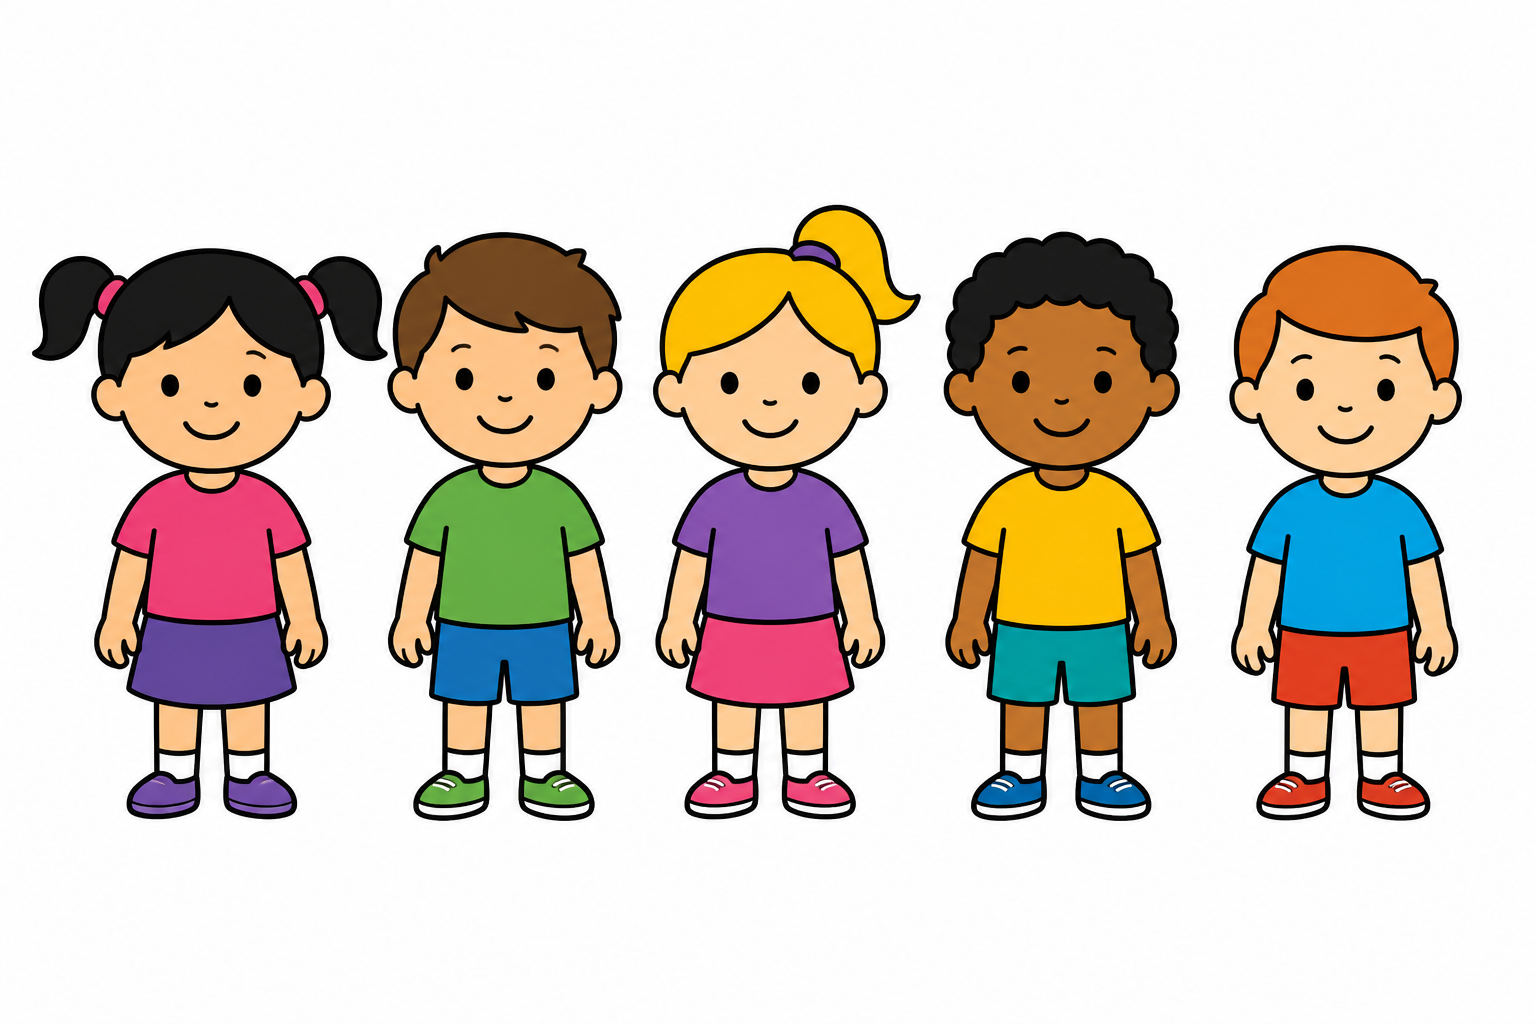
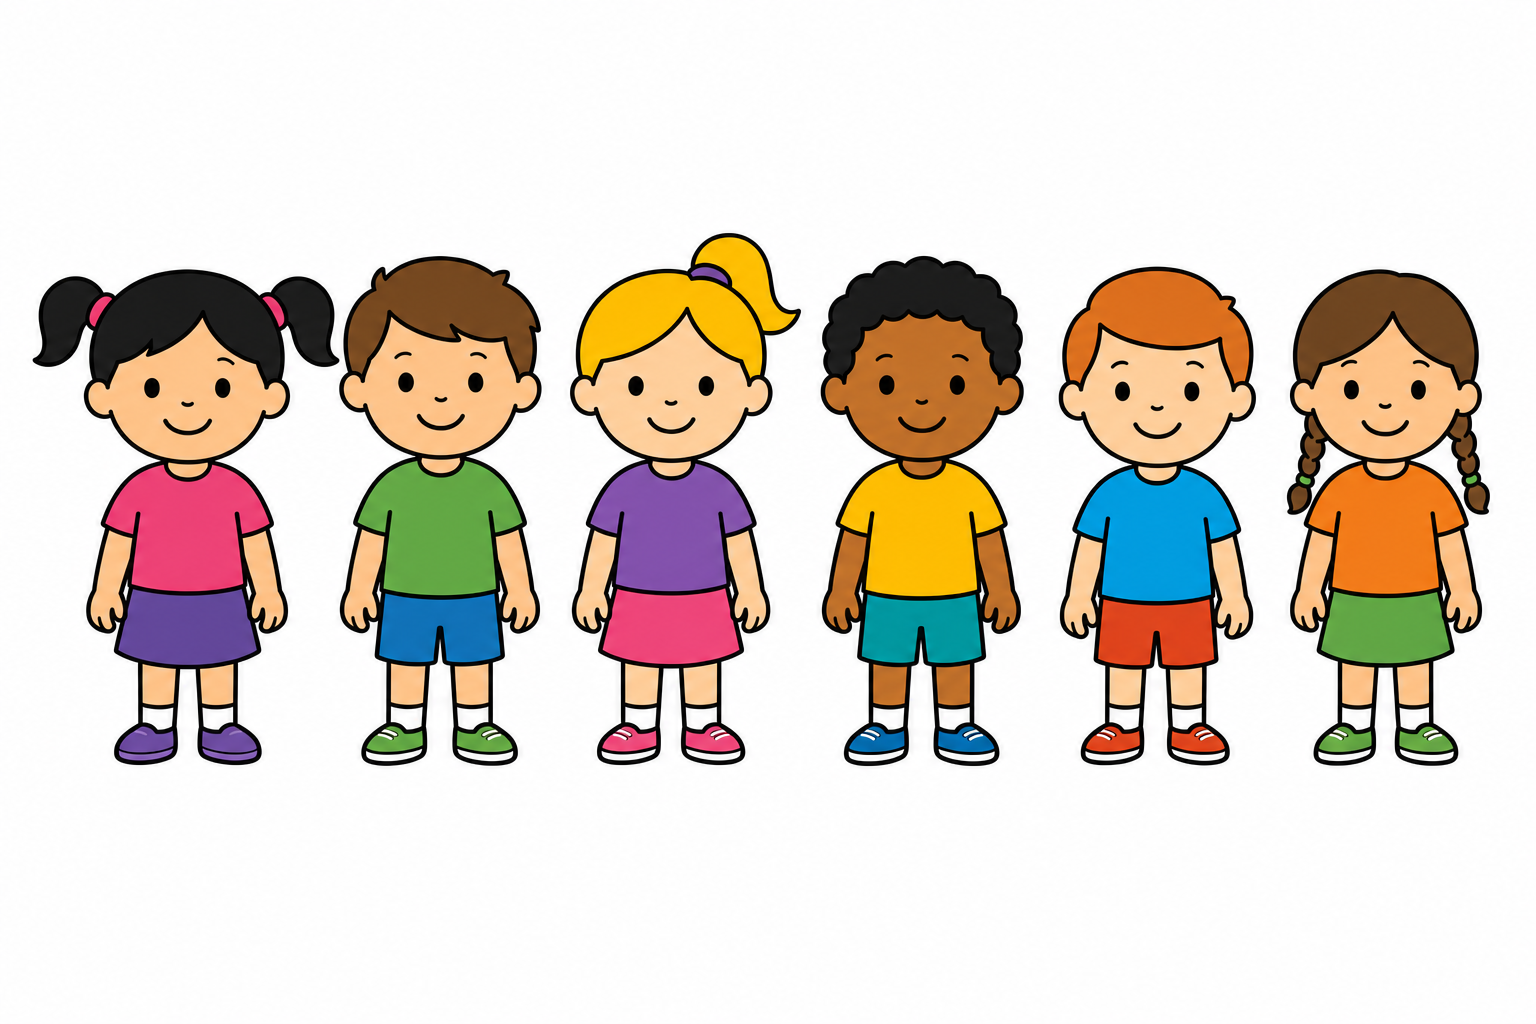
CHANGE practice: the kids picture has 3 girls and 3 boys (was 2 of 5), so "how many kids are girls?" is some either way

diff --git a/src/user/components/zarpies/stimuli.js b/src/user/components/zarpies/stimuli.js
@@ -395,7 +395,7 @@ export const SCALE_TRAINING = {
     {
       id: 'girls',
       correct: 'some',
-      image: 'images/kids_group.png',
+      image: 'images/kids_group.png', // 3 girls and 3 boys: read as "how many of these kids", the answer is still some
       question: { text: 'How many kids are girls?', audio: 'audio/training_q_girls.m4a' },
       right: {
         text: "That's right, some kids are girls and some are boys. So this card means some.",
